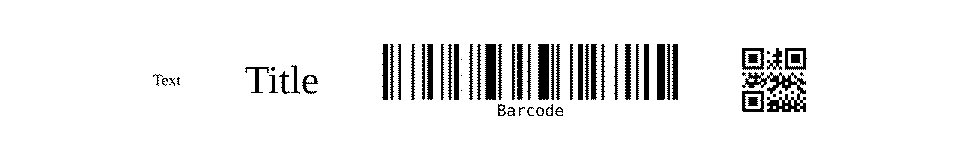
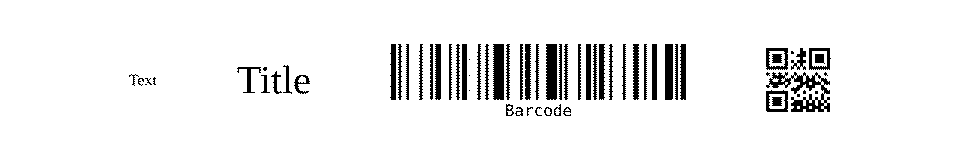
docs: expand label alignment to 3×3 grid and refresh examples
Add grid_3x3 composite to the doc generator, show all align/valign combinations in one preview, and update inline-syntax and markdown example settings.

diff --git a/crates/lbl/src/bin/generate-doc-examples.rs b/crates/lbl/src/bin/generate-doc-examples.rs
@@ -92,6 +92,8 @@ struct Example {
     composite: Option<String>,
     #[serde(default)]
     separate_images: bool,
+    #[serde(default = "default_true")]
+    compare_command_comments: bool,
     #[serde(default)]
     xargs: Option<String>,
     #[serde(default)]
@@ -389,9 +391,12 @@ fn render_example(
         )?;
     }
 
-    let composite = example.composite.as_deref() == Some("side_by_side");
-    if composite && !example.separate_images {
-        composite_side_by_side(png_path)?;
+    if !example.separate_images {
+        match example.composite.as_deref() {
+            Some("side_by_side") => composite_side_by_side(png_path)?,
+            Some("grid_3x3") => composite_grid(png_path, 3, 3)?,
+            _ => {}
+        }
     }
     let paths = if example.compare.len() > 1 || example.xargs.is_some() {
         collect_label_pngs(png_path)?
@@ -640,6 +645,75 @@ fn collect_label_pngs(base: &Path) -> Result<Vec<PathBuf>> {
     Ok(paths)
 }
 
+/// Stitch numbered batch PNGs into a rows×cols grid (row-major order).
+fn composite_grid(base: &Path, cols: u32, rows: u32) -> Result<()> {
+    let paths = collect_label_pngs(base)?;
+    let expected = (cols * rows) as usize;
+    if paths.len() != expected {
+        bail!(
+            "grid {cols}x{rows} expected {expected} images, got {}",
+            paths.len()
+        );
+    }
+
+    let images: Vec<_> = paths
+        .iter()
+        .map(|path| {
+            image::open(path)
+                .with_context(|| format!("open {}", path.display()))
+                .map(|img| img.to_rgba8())
+        })
+        .collect::<Result<_>>()?;
+
+    let gap = COMPOSITE_GAP_PX;
+    let divider = gap / 3;
+    let cell_w = images
+        .iter()
+        .map(image::RgbaImage::width)
+        .max()
+        .unwrap_or(0);
+    let cell_h = images
+        .iter()
+        .map(image::RgbaImage::height)
+        .max()
+        .unwrap_or(0);
+    let total_w = cols * cell_w + divider * cols.saturating_sub(1) + gap * cols.saturating_sub(1);
+    let total_h = rows * cell_h + divider * rows.saturating_sub(1) + gap * rows.saturating_sub(1);
+
+    let mut canvas = image::RgbaImage::from_pixel(total_w, total_h, image::Rgba(COMPOSITE_BG));
+    for (idx, img) in images.iter().enumerate() {
+        let col = (idx as u32) % cols;
+        let row = (idx as u32) / cols;
+        let x = col * (cell_w + divider + gap);
+        let y = row * (cell_h + divider + gap);
+        let ox = x + (cell_w.saturating_sub(img.width())) / 2;
+        let oy = y + (cell_h.saturating_sub(img.height())) / 2;
+        image::imageops::overlay(&mut canvas, img, i64::from(ox), i64::from(oy));
+        if col + 1 < cols {
+            for dx in 0..divider {
+                for dy in 0..cell_h {
+                    canvas.put_pixel(x + cell_w + dx, y + dy, image::Rgba(COMPOSITE_DIVIDER));
+                }
+            }
+        }
+        if row + 1 < rows {
+            for dy in 0..divider {
+                for dx in 0..cell_w {
+                    canvas.put_pixel(x + dx, y + cell_h + dy, image::Rgba(COMPOSITE_DIVIDER));
+                }
+            }
+        }
+    }
+
+    canvas
+        .save(base)
+        .with_context(|| format!("write composite {}", base.display()))?;
+    for path in paths.iter().skip(1) {
+        fs::remove_file(path).with_context(|| format!("remove {}", path.display()))?;
+    }
+    Ok(())
+}
+
 /// Stitch a multi-label batch into one preview image.
 fn composite_side_by_side(base: &Path) -> Result<()> {
     let paths = collect_label_pngs(base)?;
@@ -734,26 +808,32 @@ fn format_display_command(example: &Example) -> String {
     if !example.compare.is_empty() {
         let mut blocks = Vec::new();
         for variant in &example.compare {
-            let label = variant
-                .label
-                .clone()
-                .unwrap_or_else(|| "variant".to_string());
             let prefix = format_compare_env_prefix(&variant.env);
             let block = format_lbl_print_block(
                 &display_args_for(example, Some(&variant.args)),
                 example.single_line,
+                !example.compare_command_comments,
             );
-            blocks.push(format!(
-                "# {}\n{}",
-                label,
-                inject_env_into_command(&block, &prefix)
-            ));
+            let block = inject_env_into_command(&block, &prefix);
+            if example.compare_command_comments {
+                let label = variant
+                    .label
+                    .clone()
+                    .unwrap_or_else(|| "variant".to_string());
+                blocks.push(format!("# {}\n{block}", label));
+            } else {
+                blocks.push(block);
+            }
         }
         out.push_str(&blocks.join("\n\n"));
+        if !example.compare_command_comments {
+            ensure_command_block_has_context(&mut out);
+        }
         return out.trim_end().to_string();
     }
 
-    let mut block = format_lbl_print_block(&display_args_for(example, None), example.single_line);
+    let mut block =
+        format_lbl_print_block(&display_args_for(example, None), example.single_line, false);
     ensure_command_block_has_context(&mut block);
     out.push_str(&block);
     out.trim_end().to_string()
@@ -843,16 +923,24 @@ fn inject_env_into_command(block: &str, env_prefix: &str) -> String {
     format!("{env_prefix}{block}")
 }
 
-fn format_lbl_print_block(args: &[String], single_line: bool) -> String {
+fn format_lbl_print_block(
+    args: &[String],
+    single_line: bool,
+    skip_preview_context: bool,
+) -> String {
     let arg_lines = format_print_arg_lines(args);
     if arg_lines.is_empty() {
         let mut out = "$ lbl print".to_string();
-        ensure_command_block_has_context(&mut out);
+        if !skip_preview_context {
+            ensure_command_block_has_context(&mut out);
+        }
         return out;
     }
     if single_line {
         let mut out = format!("$ lbl print {}", arg_lines.join(" "));
-        ensure_command_block_has_context(&mut out);
+        if !skip_preview_context {
+            ensure_command_block_has_context(&mut out);
+        }
         return out;
     }
     let mut out = String::from("$ lbl print \\\n");
@@ -1277,6 +1365,7 @@ mod tests {
             files: Vec::new(),
             composite: None,
             separate_images: false,
+            compare_command_comments: true,
             xargs: None,
             show_media: false,
             show_dpi: true,
@@ -1315,6 +1404,40 @@ mod tests {
         assert_eq!(
             format_display_command(&ex),
             "$ lbl print --text hello\n# (preview label written to file)"
+        );
+    }
+
+    #[test]
+    fn format_display_command_compare_without_comments() {
+        let mut ex = example_with(vec![]);
+        ex.compare_command_comments = false;
+        ex.single_line = true;
+        ex.compare = vec![
+            CompareVariant {
+                label: None,
+                args: vec![
+                    "--label-align".into(),
+                    "start".into(),
+                    "--text".into(),
+                    "top-left".into(),
+                ],
+                env: HashMap::new(),
+            },
+            CompareVariant {
+                label: None,
+                args: vec![
+                    "--label-align".into(),
+                    "center".into(),
+                    "--text".into(),
+                    "center".into(),
+                ],
+                env: HashMap::new(),
+            },
+        ];
+        assert_eq!(
+            format_display_command(&ex),
+            "$ lbl print --label-align start --text top-left\n\n\
+             $ lbl print --label-align center --text center"
         );
     }
 

diff --git a/README.md b/README.md
@@ -174,8 +174,8 @@ Text mini-syntax embeds QR codes, barcodes, and relative font scaling in one str
 *80×20 mm* · [Printing text →](docs/src/guides/printing-text.md#inline-mini-syntax-default)
 
 ```console
-$ lbl print \
-  --text 'Text {{size:2.5:Title}}{{barcode:Barcode}}{{qr:QR}}'
+$ lbl print --text 'Text {{size:2.5:Title}}{{barcode:Barcode}}{{qr:QR}}'
+# (preview label written to file)
 ```
 
 ---
@@ -197,10 +197,10 @@ Override with `--element-gap-mm`, `LBL_STYLE__ELEMENT_GAP_MM`, or config
 $ lbl print \
   --text 'Text {{size:2.5:Title}}{{barcode:Barcode}}{{qr:QR}}'
 
-# element gap 8 mm
+# element gap 10 mm
 $ lbl print \
   --text 'Text {{size:2.5:Title}}{{barcode:Barcode}}{{qr:QR}}' \
-  --element-gap-mm 8
+  --element-gap-mm 10
 ```
 
 ---
@@ -215,34 +215,37 @@ Headings, emphasis, and inline directives compose via `--markdown`.
 
 ```console
 $ lbl print \
-  --markdown $'# Order 44\n\nShip **fast**\n\n{{qr:https://track/42}}'
+  --markdown $'# Order #1234\n\n⚠ Caution **fragile**\n\n{{qr:https://track/1234}}'
 ```
 
 ---
 
-### Cross-axis alignment
+### Label alignment
 
-Position content across the label width with `--label-align` (`start`, `center`, or `end`).
+Position content on the label with `--label-align` and `--label-valign`.
 
-<img src="docs/src/generated/images/label-align.png" alt="Cross-axis alignment" width="100%" />
-
-<img src="docs/src/generated/images/label-align-01.png" alt="Cross-axis alignment" width="100%" />
-
-<img src="docs/src/generated/images/label-align-02.png" alt="Cross-axis alignment" width="100%" />
+<img src="docs/src/generated/images/label-align.png" alt="Label alignment" width="100%" />
 
 *90×15 mm @ 300 dpi* · [Configuration →](docs/src/guides/configuration.md#style-fonts-qr-barcodes)
 
 ```console
-# align left
-$ lbl print --label-align start --text 'align left'
-# (preview label written to file)
+$ lbl print --label-align start --label-valign start --text top-left
 
-# align center
-$ lbl print --label-align center --text 'align center'
-# (preview label written to file)
+$ lbl print --label-align center --label-valign start --text top-center
 
-# align right
-$ lbl print --label-align end --text 'align right'
+$ lbl print --label-align end --label-valign start --text top-right
+
+$ lbl print --label-align start --label-valign center --text center-left
+
+$ lbl print --label-align center --label-valign center --text center
+
+$ lbl print --label-align end --label-valign center --text center-right
+
+$ lbl print --label-align start --label-valign end --text bottom-left
+
+$ lbl print --label-align center --label-valign end --text bottom-center
+
+$ lbl print --label-align end --label-valign end --text bottom-right
 # (preview label written to file)
 ```
 
